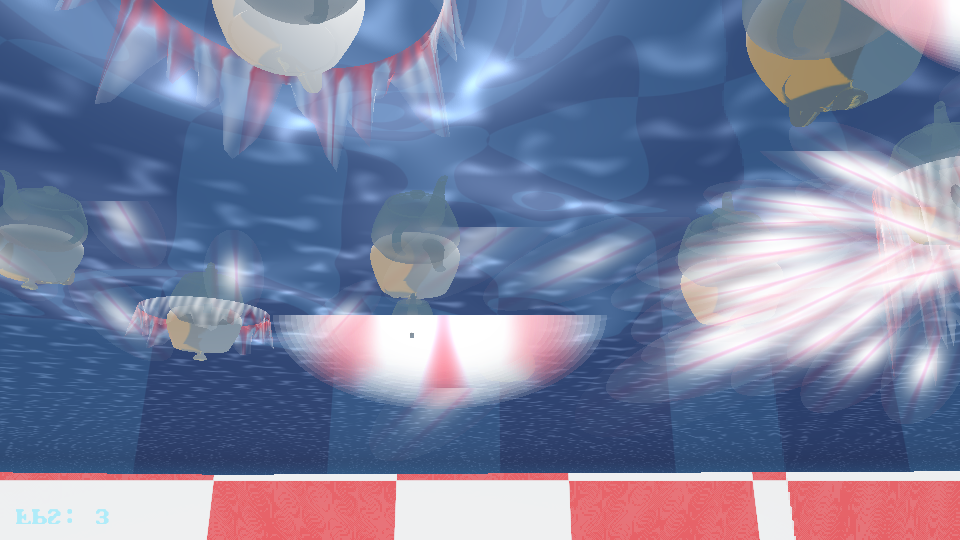
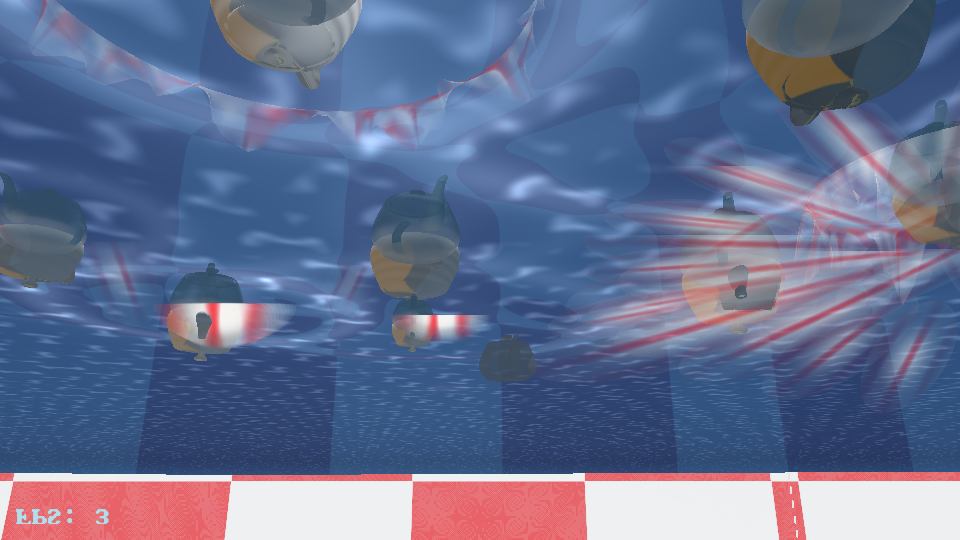
Pool: fix settle-time white blowout, super-realism pass on scene 2
When the fleet settled, splash sprites fused into solid white domes and
starbursts: jet billboards (up to ~1 m wide, 22 stacked quads, camera-
facing) blended asymptotically to flat white, crown heights scaled to
2.6 m with the bigger fleet (a real crown stays under a metre), and
droplet/crown colours were light-led so dense spray saturated the
framebuffer. Census across the full timeline (automated overbright-blob
analysis) showed solid masses at t=12/17/30; after the fix the water
area is clean at every sampled time.

- jet: absolute radius cap (root-scale), 8 stack steps, fade 0.62
- crown: absolute 0.9 m height cap; radius growth keeps its scale factor
- crown sheet: reflection-led shading — grazing views show the reflected
  room, not white paint; thinner film alpha, spec 1.7 -> 0.55
- droplets: reflection-led, more translucent, hard clamp below clip
- teapot: energy-corrected GGX (capped NDF, 1/pi diffuse), animated
  underwater caustics matching water_frag, refraction-offset submerged
  texture lookup, anisotropic wet streaks, knee-less Reinhard tonemap
  (colour no longer desaturates to grey), unbounded firefly spec capped
- water: unbounded GGX highlight capped
- physics: quadratic cavity drag stops 15 m plunges slamming the sim
  floor; floor contact now kills downward velocity (no more pop-up
  re-splash after settling)

New tooling: scripts/render_critique.py (untracked local) analyses
frames for clipping, colour cast, region balance and overbright-blob
[…]

diff --git a/README.md b/README.md
@@ -133,13 +133,16 @@ What it renders :
   level while they fall: the drops come down INTO frame, it never chases or
   rises after the fleet. Each pot has scattered positions, sizes and drop heights
   on a staggered timeline, with real-ish physics: gravity and tumble in the air, a splash that
-  fully absorbs the plunge (no bounce), buoyancy + drag underwater, then a damped bob to rest while it slowly rights
+  fully absorbs the plunge (cavity drag below the surface + a float-line clamp — pots can never
+  pop back out), buoyancy + drag underwater, then a damped bob to rest while it slowly rights
   itself. `R` re-drops the whole fleet
-- **Splash FX**: a GPU-animated **Worthington crown** — a water sheet that erupts around the impact,
+- **Splash FX**: a GPU-animated **Worthington crown** — a translucent water film (under a metre
+  tall, reflection-led so grazing views show the reflected room, never a white dome) that erupts
+  around the impact,
   reflects and transmits the checker tiles through it, and tears into alpha-striped **fingers** as
   it disintegrates — plus ballistic **droplet streaks** stretched along their velocity (wave-two
-  impacts throw double ejecta with torn sheet fragments),expanding **ripple rings** with residual foam-trail halos that disturb the reflection, and the delayed central **Rayleigh jet** — its punch scaled by the impact — that
-  fires on the cavity's inertial collapse and falls back with its own ring — the crown's light sweep follows the actual reflected-ray azimuth. The pots wear a GGX ceramic glaze with sky-tile ambient bounce and a wet waterline. All CPU cost is a
+  impacts throw double ejecta with torn sheet fragments), expanding **ripple rings** with residual foam-trail halos that disturb the reflection, and a slender delayed central **Rayleigh jet** — its punch scaled by the impact — that
+  fires on the cavity's inertial collapse and falls back with its own ring — the crown's light sweep follows the actual reflected-ray azimuth. The pots wear an energy-corrected GGX ceramic glaze with animated underwater caustics, refraction-offset submerged shading, and a wet waterline. All CPU cost is a
   handful of uniforms; the geometry animates in the vertex shader
 
 Run the pool scene on its own with :
